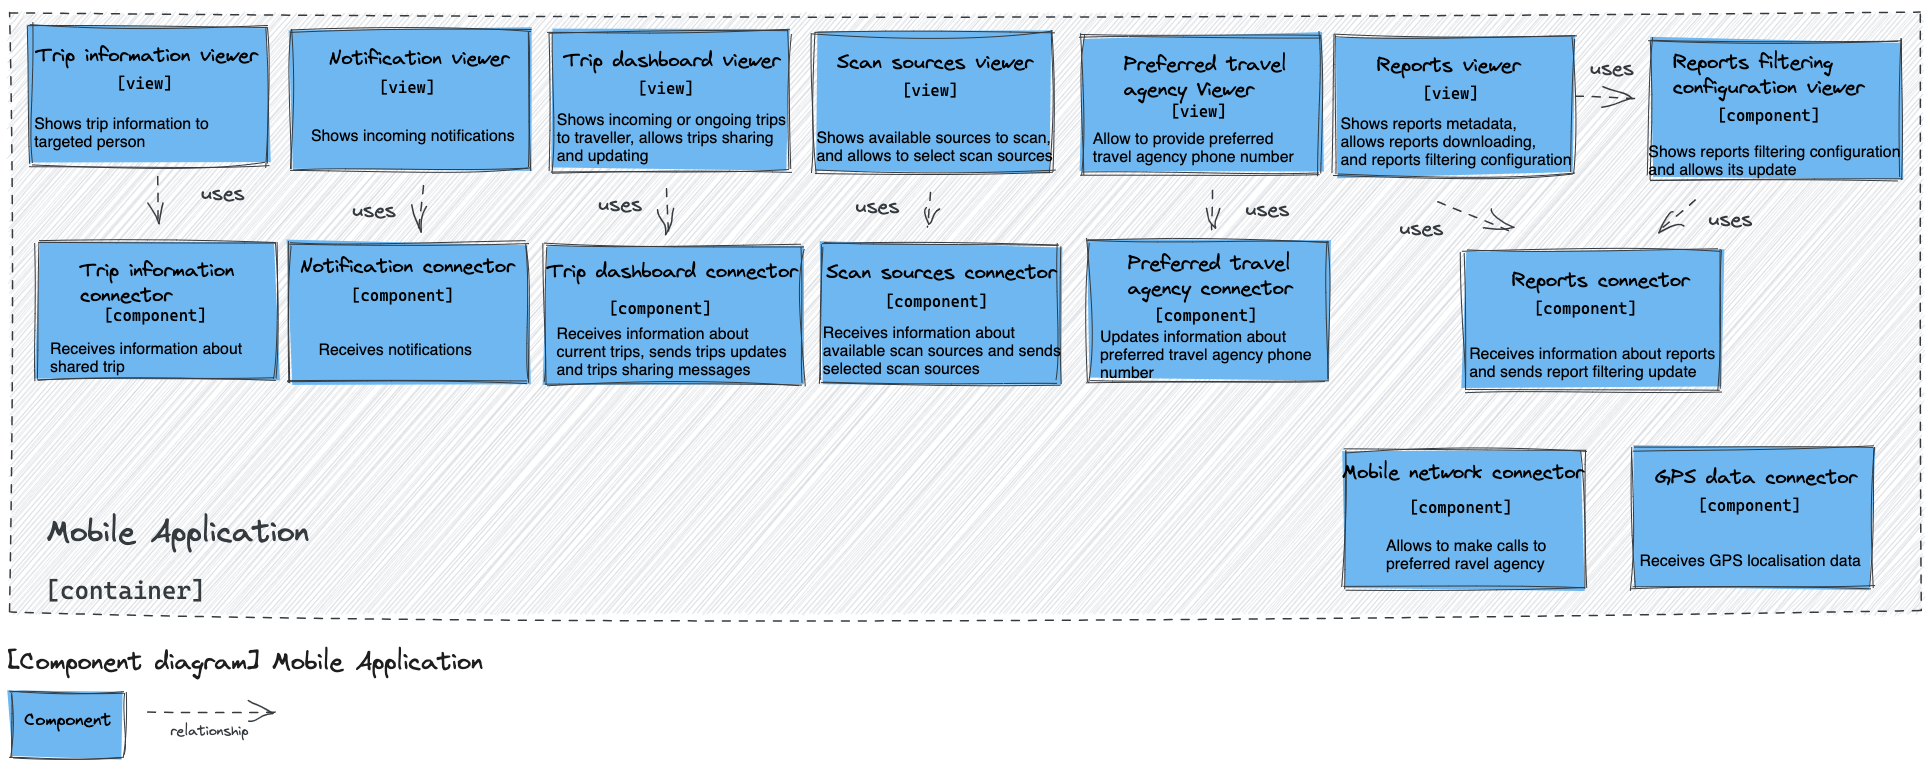
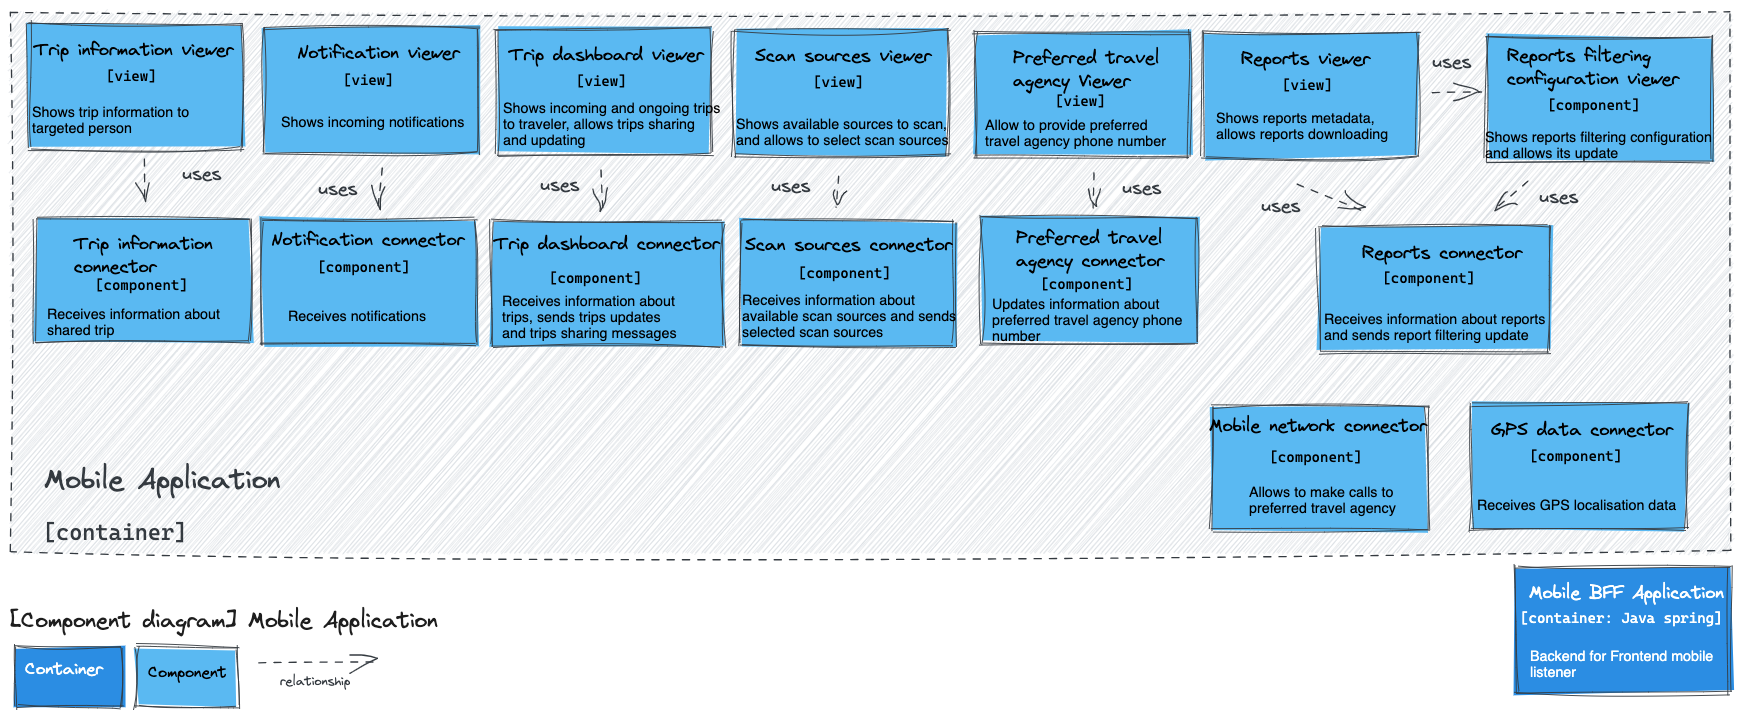
update ADRs

Changed region(s): [[0.0, 0.0, 1.0, 0.9846], [0.0, 0.8308, 0.2477, 1.0], [0.0, 0.6462, 0.1548, 0.8]]

diff --git a/current/adr/ADR_030_decomposition_mobile_ui_domain.md b/current/adr/ADR_030_decomposition_mobile_ui_domain.md
@@ -1,23 +1,46 @@
 # Title
 
-[short noun phrase]
+Mobile UI domain
 
 ## Status
 
-[proposed, accepted, superseded]
+**accepted**
 
 ## Context
 
-[description of the problem and alternative solutions available (documentation)]
+Separation of concerns is a principle used in programming to separate an application into units, with minimal overlapping between the functions of the individual units. The separation of concerns is achieved using modularization, encapsulation and arrangement in software layers.  
 
 ## Decision
 
-[decision and justification (the “why”)]
+The mobile ui domain was distinguished from the functional requirements for the application.  
+
+Analyzing the functional requirements, we distinguished the following components included in the domain:  
+* trip information viewer - is responsible for showing trips information to targeted person,  
+* trip information connector - is responsible for receiving information about shared trips by traveler to targeted person,  
+* notification viewer - is responsible for showing incomming notifications and allowing to select readed ones,  
+* notification connector - is responsible for receiving notifications messages, and sending remove notification requests to server-side application,     
+* trip dashboard viewer - is responsible for showing incomming and ongoing trips to traveler, and allowing trips sharing and updating,  
+* trip dashboard connector - is responsible for receiving information about trips and sending trips update and trips sharing requests to server-side application,  
+* scan sources viewer - is responsible for showing available sources to scan and allowing selection of preferred scan sources,  
+* scan sources connector - is responsible for receiving information about available scan sources and sending selected scan source to update by server-side application,  
+* preferred travel agency viewer - is responsible for providing preferred travel agency phone number,  
+* preferred travel agency connector - is responsible for sending update requests about preferred travel agency phone number,  
+* reports viewer - is resopnsible for showing reports metadata, and downloading generated end-of-year summary reports,  
+* reports filtering configuration viewer - is resopnsible for showing reports filtering configuration and allowing its update,  
+* reports connector - is responsible for receiving information about reports and sending report filtering criteria to update by server-side application,  
+* mobile network connector - is responsible for calling preferred travel agency for help,  
+* GPS data connector - is responsible for receiving GPS localisation data,  
+* mobile BFF application - is responsible for listening on requests from mobile frontend applications.  
+
+The domain consists of two independebly deployable applications. One is a mobile application and the other is server-side mobile BFF application component.  
+
+The mobile application was divided into components that can be implemented independently by teams assigned to specific functionalities.  
+
+The mobile BFF application should be managed by the same team implementing UI to speed up team work and not share responsibilities come from one domain between different teams (we don't want to synchronize work of multiple teams to provide simple functionality because it is not an efficient approach).  
 
 ## Consequences
 
-[trade-offs and impact of decision]
-
+The independently deployable component will need to be managed and orchestrated.  
 
 ### Resources:
 

diff --git a/current/adr/ADR_031_decomposition_web_ui_domain.md b/current/adr/ADR_031_decomposition_web_ui_domain.md
@@ -1,22 +1,45 @@
 # Title
 
-[short noun phrase]
+Web UI domain
 
 ## Status
 
-[proposed, accepted, superseded]
+**accepted**
 
 ## Context
 
-[description of the problem and alternative solutions available (documentation)]
+Separation of concerns is a principle used in programming to separate an application into units, with minimal overlapping between the functions of the individual units. The separation of concerns is achieved using modularization, encapsulation and arrangement in software layers.  
 
 ## Decision
 
-[decision and justification (the “why”)]
+The web ui domain was distinguished from the functional requirements for the application.  
+
+Analyzing the functional requirements, we distinguished the following components included in the domain:  
+* trip information viewer - is responsible for showing trips information to targeted person,  
+* trip information connector - is responsible for receiving information about shared trips by traveler to targeted person,  
+* notification viewer - is responsible for showing incomming notifications and allowing to select readed ones,  
+* notification connector - is responsible for receiving notifications messages, and sending remove notification requests to server-side application,     
+* trip dashboard viewer - is responsible for showing incomming and ongoing trips to traveler, and allowing trips sharing and updating,  
+* trip dashboard connector - is responsible for receiving information about trips and sending trips update and trips sharing requests to server-side application,  
+* scan sources viewer - is responsible for showing available sources to scan and allowing selection of preferred scan sources,  
+* scan sources connector - is responsible for receiving information about available scan sources and sending selected scan source to update by server-side application,  
+* preferred travel agency viewer - is responsible for providing preferred travel agency phone number,  
+* preferred travel agency connector - is responsible for sending update requests about preferred travel agency phone number,  
+* reports viewer - is resopnsible for showing reports metadata, and downloading generated end-of-year summary reports,  
+* reports filtering configuration viewer - is resopnsible for showing reports filtering configuration and allowing its update,  
+* reports connector - is responsible for receiving information about reports and sending report filtering criteria to update by server-side application,  
+* mobile network connector - is responsible for calling preferred travel agency for help,  
+* web BFF application - is responsible for listening on requests from web browser frontend applications.  
+
+The domain consists of two independebly deployable applications. One is a web application and the other is server-side web BFF application component.  
+
+The web application was divided into components (widgets) that can be implemented independently by teams assigned to specific functionalities.  
+
+The web BFF application should be managed by the same team implementing UI to speed up team work and not share responsibilities come from one domain between different teams (we don't want to synchronize work of multiple teams to provide simple functionality because it is not an efficient approach).  
 
 ## Consequences
 
-[trade-offs and impact of decision]
+The independently deployable component will need to be managed and orchestrated.  
 
 
 ### Resources:

diff --git a/current/adr/ADR_029_decomposition_trip_email_source_domain.md b/current/adr/ADR_029_decomposition_trip_email_source_domain.md
@@ -1,23 +1,34 @@
 # Title
 
-[short noun phrase]
+Trip email source domain
 
 ## Status
 
-[proposed, accepted, superseded]
+**accepted**
 
 ## Context
 
-[description of the problem and alternative solutions available (documentation)]
+Separation of concerns is a principle used in programming to separate an application into units, with minimal overlapping between the functions of the individual units. The separation of concerns is achieved using modularization, encapsulation and arrangement in software layers.  
 
 ## Decision
 
-[decision and justification (the “why”)]
+The trip email source domain was distinguished from the functional requirements for the application.  
+
+Analyzing the functional requirements, we distinguished the following components included in the domain:  
+* email receiver - is responsible for receiving travel-related emails forwarded by traveler and extracting usefull information from them,  
+* email tracker - is responsible for tracking email messages and extracting usefull information from emails related to travels,  
+* machine learning classification model - is responsible for classification email messages as a travel-related,  
+* email register process - is responsible for registering or removing email addresses identified for tracking by the traveler.  
+
+Email tracker and email register process components operate on the same operational database which stores emails addresses identified for tracking in one, separate, dedicated for the domain database schema.  
+
+All distinguished domain components are grouped in one independently deployable unit but are ready to perform next decomposition after learning more about the business domain and performing first performance tests.  
+
+Each of the recognised components can be separated and transferred to independently deployable component but we don't want to over-architect the solution up-front.  
 
 ## Consequences
 
-[trade-offs and impact of decision]
-
+The independently deployable component will need to be managed and orchestrated.  
 
 ### Resources:
 

diff --git a/current/adr/README.md b/current/adr/README.md
@@ -22,5 +22,16 @@
 [ADR_020_network_security](./ADR_020_network_security.md)  
 [ADR_021_database_availability](./ADR_021_database_availability.md)  
 [ADR_022_data_cache](./ADR_022_data_cache.md)  
+[ADR_023_decomposition_synchronization_domain](./ADR_023_decomposition_synchronization_domain.md)  
+[ADR_024_decomposition_analytical_domain](./ADR_024_decomposition_analytical_domain.md)  
+[ADR_025_decomposition_dashboard_domain](./ADR_025_decomposition_dashboard_domain.md)  
+[ADR_026_decomposition_notification_domain](./ADR_026_decomposition_notification_domain.md)  
+[ADR_027_decomposition_trip_travel_source_domain](./ADR_027_decomposition_trip_travel_source_domain.md)  
+[ADR_028_decomposition_social_media_domain](./ADR_028_decomposition_social_media_domain.md)  
+[ADR_029_decomposition_trip_email_source_domain](./ADR_029_decomposition_trip_email_source_domain.md)  
+[ADR_030_decomposition_mobile_ui_domain](./ADR_030_decomposition_mobile_ui_domain.md)  
+[ADR_031_decomposition_web_ui_domain](./ADR_031_decomposition_web_ui_domain.md)  
+[ADR_032_continuous_practices](./ADR_032_continuous_practices.md)  
+[ADR_033_codebase](./ADR_033_codebase.md)  
 
 [Go back](../../README.md)

diff --git a/current/adr/ADR_025_decomposition_dashboard_domain.md b/current/adr/ADR_025_decomposition_dashboard_domain.md
@@ -23,7 +23,7 @@ Analyzing the functional requirements, we distinguished the following components
 * trip dashboard data provider process - is responsible for providing data to dashboard the traveler can see on his device or in web browser,  
 * problem reporter process - is responsible for registering and managing preferred travel agency telephone number.  
 
-All of the distinguished components operates on the same operational database which stores trips data and preferred travel agency telephone number in one, separate, database schema.
+All of the distinguished components operate on the same operational database which stores trips data and preferred travel agency telephone number in one, separate, dedicated for the domain database schema.
 
 They are all grouped in one independently deployable unit but are ready to perform next decomposition after learning more about the business domain and performing first performance tests.  
 

diff --git a/current/adr/ADR_026_decomposition_notification_domain.md b/current/adr/ADR_026_decomposition_notification_domain.md
@@ -19,7 +19,7 @@ Analyzing the functional requirements, we distinguished the following components
 * travel change capture process - is responsible for storing and removing notifications when the specified events occured in system,  
 * travel change notifier process - is responsible for instant notification about travel changes. It returns notifications after user application starts and reloads as well.  
 
-All of the distinguished components operates on the same operational database which stores notifications.  
+All of the distinguished components operates on the same operational database which stores notifications in one, separate, dedicated for the domain database schema.  
 
 They are all grouped in one independently deployable unit but are ready to perform next decomposition after learning more about the business domain and performing first performance tests.  
 

diff --git a/current/adr/ADR_024_decomposition_analytical_domain.md b/current/adr/ADR_024_decomposition_analytical_domain.md
@@ -23,7 +23,7 @@ Analyzing the functional requirements, we distinguished the following components
 * report generator - is responsible for generating end-of-year summary reports,  
 * analytical data provider process - is responsible for providing analytical data to external systems (the application's primary source of income).  
 
-All of the distinguished components operates on the same analytical database which stores analytical data about trips and optional filtering report criteria for traveler.  
+All of the distinguished components operate on the same analytical database which stores analytical data about trips and optional filtering report criteria for traveler.  
 
 They are all grouped in one independently deployable unit but are ready to perform next decomposition after learning more about the business domain and performing first performance tests.  
 

diff --git a/current/adr/ADR_033_codebase.md b/current/adr/ADR_033_codebase.md
@@ -1,0 +1,22 @@
+# Title
+
+[short noun phrase]
+
+## Status
+
+[proposed, accepted, superseded]
+
+## Context
+
+[description of the problem and alternative solutions available (documentation)]
+
+## Decision
+
+[decision and justification (the “why”)]
+
+## Consequences
+
+[trade-offs and impact of decision]
+
+
+[Go back](./README.md)
